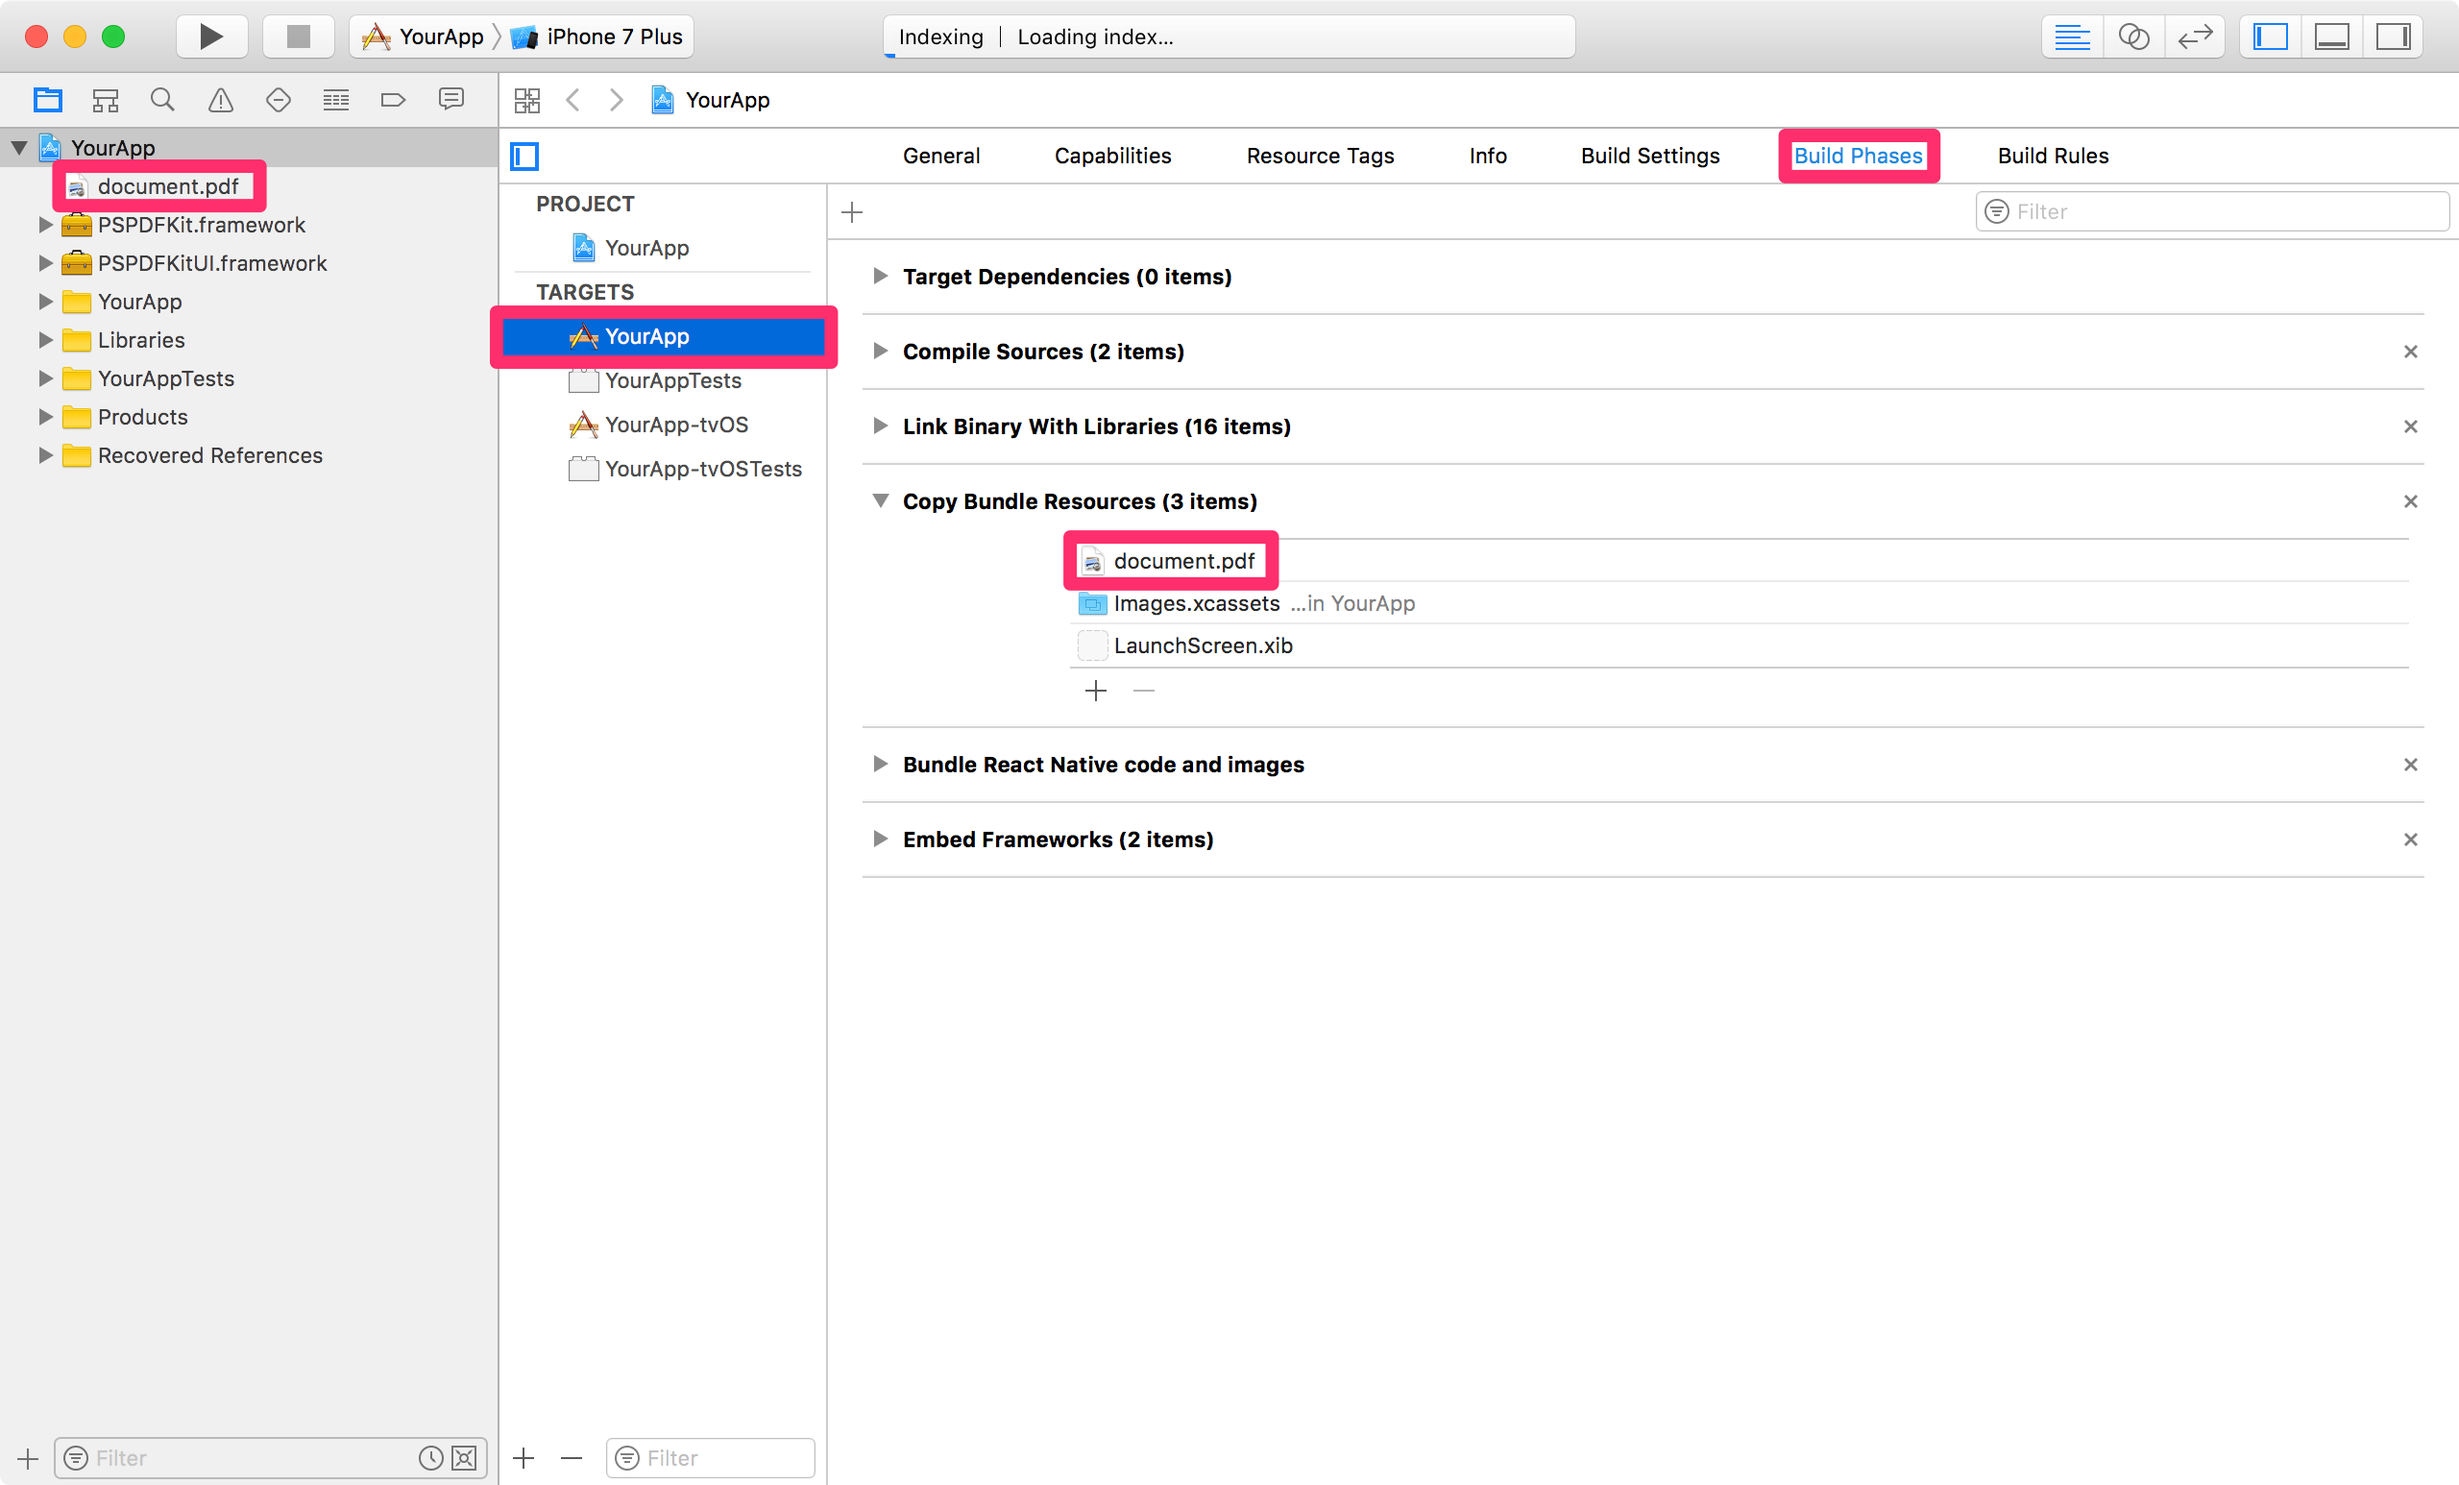
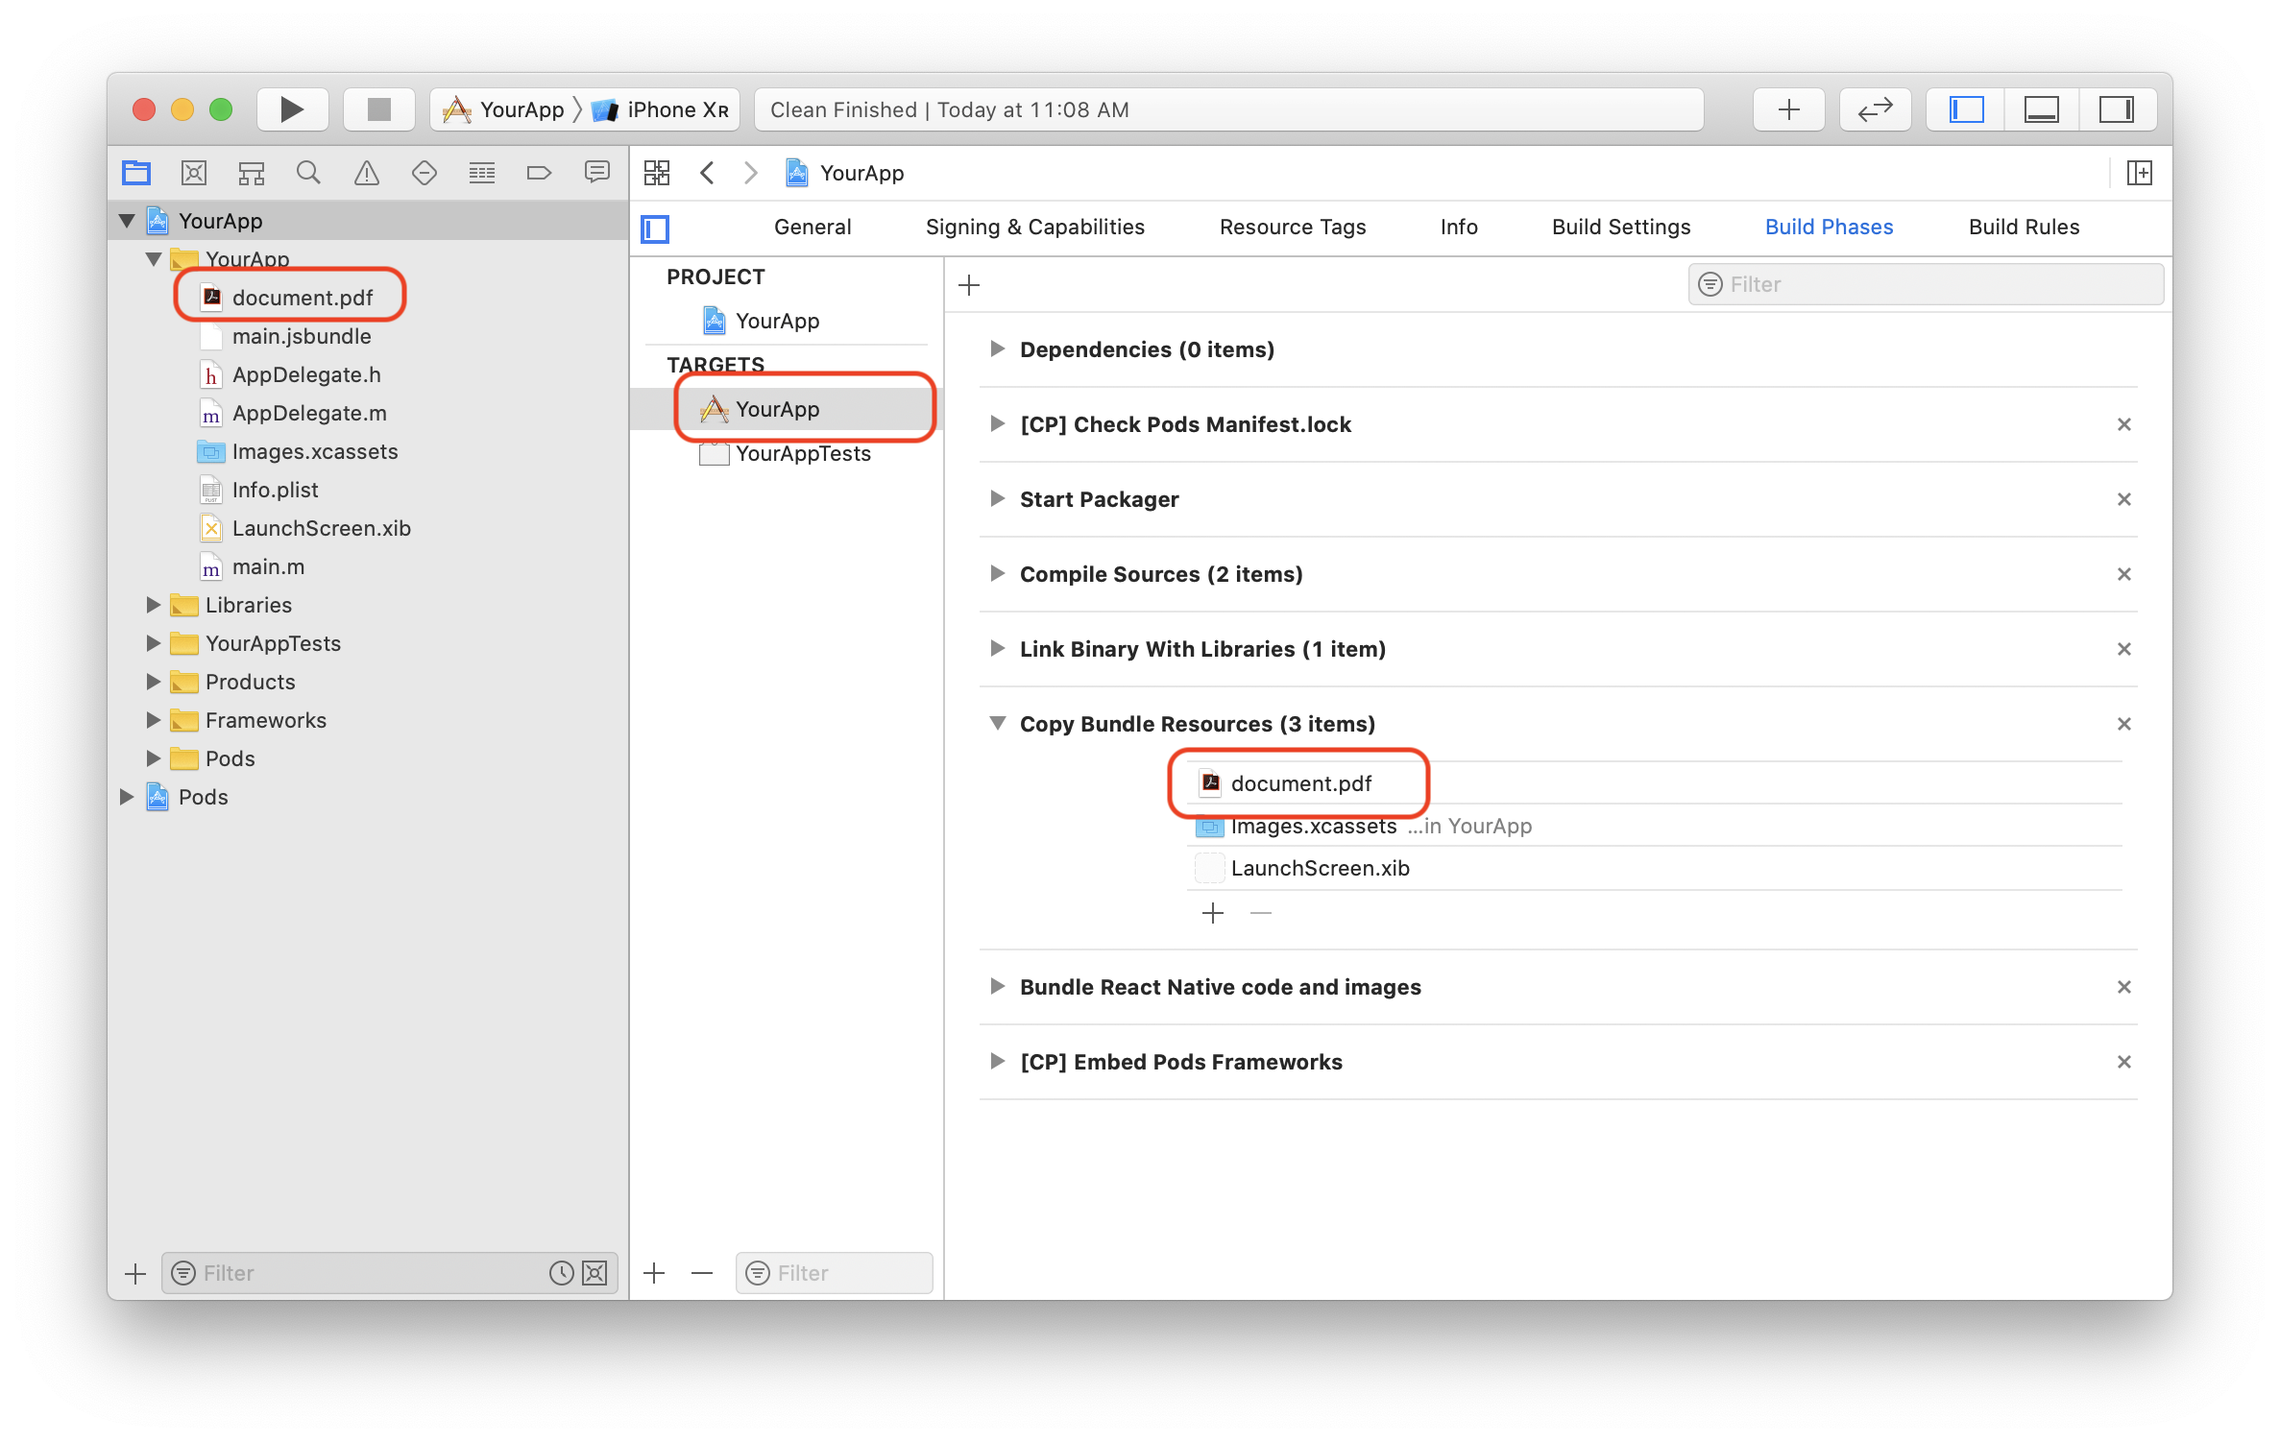
Update integration steps in the README

diff --git a/README.md b/README.md
@@ -29,9 +29,9 @@ The [PSPDFKit SDK](https://pspdfkit.com/) is a framework that allows you to view
 
 #### Requirements
 
-- Xcode 10.3
-- PSPDFKit 8.5.1 for iOS or later
-- react-native >= 0.60.4
+- Xcode 11
+- PSPDFKit 9.0.0 for iOS or later
+- react-native >= 0.60.5
 - CocoaPods >= 1.7.5
 
 #### Getting Started
@@ -90,9 +90,11 @@ end
     ![Deployment Target](screenshots/deployment-target.png)
 10. Change "View controller-based status bar appearance" to `YES` in `Info.plist`:
     ![View Controller-Based Status Bar Appearance](screenshots/view-controller-based-status-bar-appearance.png)
-11. Add a PDF by drag and dropping it into your Xcode project (Select "Create groups" and add to target "YourApp"). This will add the document to the "Copy Bundle Resources" build phase:
+11. If your application is targeting iOS versions **prior to iOS 12.2** and your application **does not already contain any Swift code**, then you need to make sure Xcode bundles Swift standard libraries with your application distribution. To to so, open your target Build Settings and enable `Always Embed Swift Standard Libraries`:
+	![Always Embed Swift Standard Libraries](screenshots/always-embed-swift-standard-libraries.png)
+12. Add a PDF by drag and dropping it into your Xcode project (Select "Create groups" and add to target "YourApp"). This will add the document to the "Copy Bundle Resources" build phase:
     ![Adding PDF](screenshots/adding-pdf.png)
-12. Replace the default component from `App.js` with a simple touch area to present the bundled PDF. (Note that you can also use a [Native UI Component](#native-ui-component) to show a PDF.)
+13. Replace the default component from `App.js` with a simple touch area to present the bundled PDF. (Note that you can also use a [Native UI Component](#native-ui-component) to show a PDF.)
 
 ```javascript
 import React, { Component } from "react";
@@ -254,7 +256,7 @@ Example - Native UI Component:
 
 #### Running Catalog Project
 
-- Copy `PSPDFKit.framework` and `PSPDFKitUI.framework` into the `PSPDFKit` directory.
+- Copy `PSPDFKit.xcframework` and `PSPDFKitUI.xcframework` into the `PSPDFKit` directory.
 - Install dependencies: `yarn install` in `samples/Catalog` directory. (Because of a [bug](https://github.com/yarnpkg/yarn/issues/2165) you may need to clean `yarn`'s cache with `yarn cache clean` before.)
 - Run the app with `react-native-cli`: `react-native run-ios`
 - If you get an error about `config.h` not being found check out [this blog post](https://tuntunir.blogspot.com/2018/02/react-native-fatal-error-configh-file.html) for information on how to fix it.
